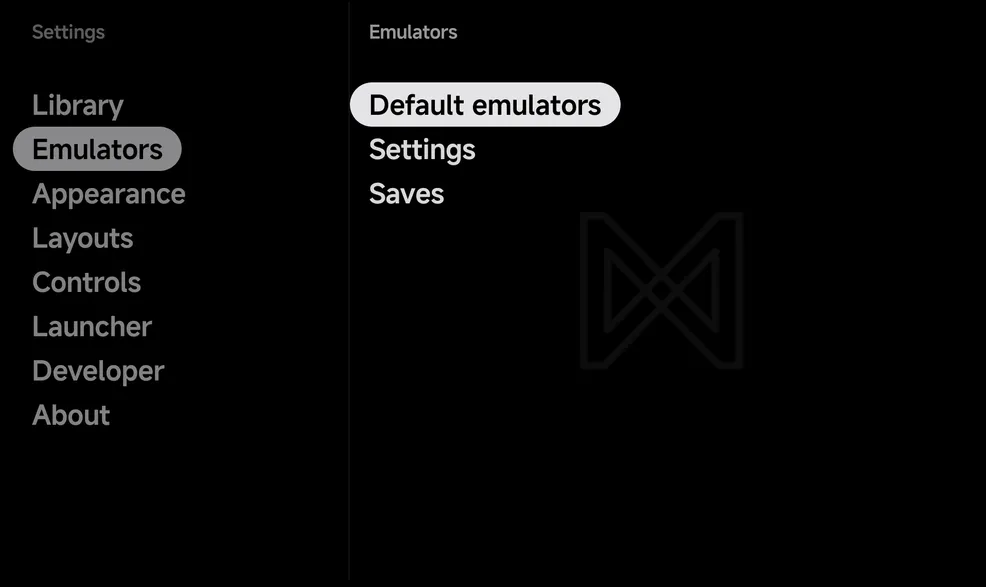
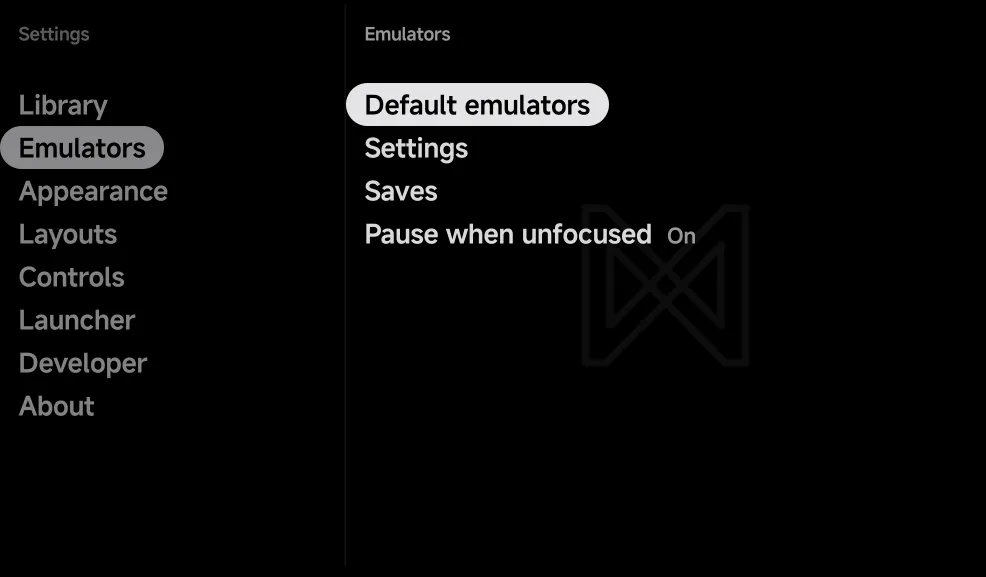
Mobile: the main menu on two screens, apps on the picture screen, Settings → Second screen, Pause when unfocused (#31)

diff --git a/docs/mobile/dual-screen.md b/docs/mobile/dual-screen.md
@@ -1,9 +1,11 @@
 # Dual Screens & External Displays
 
-On a handheld with a second screen, NX Redux uses both. Nintendo DS and 3DS
-games get one screen each, like the real console. Other games show the game
-on one screen and a [game panel](#the-game-panel) on the other, with your play
-time, achievements and a few shortcuts.
+On a handheld with a second screen, NX Redux uses both. In the
+[main menu](#the-main-menu), the games of the console or collection you're on
+show on one screen while you browse on the other. Nintendo DS and 3DS games
+get one screen each, like the real console. Other games show the game on one
+screen and a [game panel](#the-game-panel) on the other, with your play time,
+achievements and a few shortcuts.
 
 ![Mario Kart DS on two screens: the DS top screen on a wired display, the bottom screen on the phone with the Panel pill](../assets/screenshots/mobile/dual-screen-ds-split.webp)
 
@@ -20,9 +22,6 @@ shows in the [in-game menu](in-game-menu.md#the-game-panel) instead.
 ??? info "More detail"
     - Plug a display in or unplug it during a game and the game carries on: the
       layout switches straight away.
-    - The app's own pages, such as Home, Settings and the in-game menu, stay on
-      the phone's main screen. The second screen only ever shows part of a
-      running game.
     - Android doesn't tell an add-on screen from a monitor or a TV, so a
       wired monitor counts as a second screen too.
 
@@ -30,8 +29,10 @@ shows in the [in-game menu](in-game-menu.md#the-game-panel) instead.
 
 One screen is the **picture screen** and the other the **touch screen**:
 
-- The **picture screen** shows the game, or the DS or 3DS top screen.
+- The **picture screen** shows the game, or the DS or 3DS top screen. In the
+  main menu it shows a game list.
 - The **touch screen** shows the DS or 3DS bottom screen, or the game panel.
+  In the main menu it shows the menu.
 
 By default the wider screen is the picture screen. When both have the same
 shape, the second screen gets the picture. To choose yourself, set
@@ -57,11 +58,56 @@ screen** button: tap the one on the screen below. **Skip** leaves it on
 A wired display never gets this question. Change the answer any time in
 [Settings](#settings).
 
+## The main menu
+
+With a second screen in use, the main menu stays on the touch screen and the
+picture screen helps you browse.
+
+- On **Consoles** and **Collections**, the picture screen shows the games of
+  the highlighted console or collection. It follows as you move.
+- Press `A` on a console or collection, or tap it, to move to its game list on
+  the picture screen. Move through the games there, and press `A` to play.
+- While you're in the game list, the touch screen shows the highlighted
+  game's details: its art, name and play time and, with a
+  [RetroAchievements](retroachievements.md) set, its achievements.
+- `B`, Android's Back gesture or the **Back** button on the details goes
+  back to the menu.
+- On **Home**, **Tools** and **Settings**, the picture screen shows the
+  backdrop with the NX logo.
+
+![The main menu on two screens: Game Boy Advance highlighted in Consoles on the phone, its games on the wired display](../assets/screenshots/mobile/dual-screen-menu.webp)
+
+Your buttons work on the screen you're on, and its button hints show there
+only. In the game list they do what they do in any
+[game list](main-menu.md#game-lists), such as `MENU` for the game's context menu or
+`START` to search. Menus and prompts open on the same screen.
+
+The game list uses your game list style from
+[**Settings → Layouts**](layouts.md), not the Consoles or Collections style.
+
+![Kirby & the Amazing Mirror highlighted in the game list on the wired display, its details and achievements on the phone](../assets/screenshots/mobile/dual-screen-menu-details.webp)
+
+??? info "More detail"
+    - You can scroll or swipe either screen at any time without leaving the
+      one you're on. Only a tap that picks something moves you: a tap on a
+      game highlights it, and a tap on the highlighted game plays it.
+    - Back from a game, you return to the game list on the same game.
+    - Signed out of RetroAchievements, the details show the game's info only.
+    - With [**Enable**](#settings) off, the main menu uses one screen.
+
+### Apps on the picture screen
+
+With a second screen in use, apps you open from NX Redux open on the picture
+screen, and the menu stays where it is. This covers apps in **Tools**, tools
+pinned to Home, and [Android games](launcher.md).
+
+To have the picture screen back, close the app.
+
 ## Settings
 
-**Tools → Settings → Emulators → Second screen** has the system-wide
-settings. The **Second screen** row shows only while a second screen is
-connected.
+**Tools → Settings → Second screen** has the system-wide settings. The
+**Second screen** section, between **Controls** and **Launcher**, shows only
+while a second screen is connected.
 
 | Row | Values | Default | What it does |
 | --- | --- | --- | --- |
@@ -171,8 +217,7 @@ Below it are up to three tabs. A tab shows only when it applies.
 ??? info "More detail"
     - **Swap disc** works as the in-game menu's **Disc** row does, while the
       game keeps running.
-    - **Second screen** changes **Settings → Emulators → Second screen →
-      Enable**.
+    - **Second screen** changes **Settings → Second screen → Enable**.
     - In a [netplay](netplay.md) match, **Swap disc** is hidden.
 
 ### Achievements
@@ -192,6 +237,10 @@ controller, or **Empty**. It works as the
 
 ## Limits
 
+- To type on the second screen, such as in a search or a rename, tap the text
+  field first.
+- While an app covers the main screen, the menu on the second screen hides
+  until you come back.
 - The panel can't be driven with buttons on the touch screen. In the in-game
   menu on one screen it can: see [The game panel](in-game-menu.md#the-game-panel).
 - Achievements in the panel have no details page for now.

diff --git a/docs/mobile/emulator-settings.md b/docs/mobile/emulator-settings.md
@@ -4,7 +4,7 @@
 sets each emulator's options for a whole console, without starting a game
 first.
 
-![Settings, with Emulators open beside the sections: Default emulators, Settings and Saves](../assets/screenshots/mobile/settings-emulators.webp){ .nx-wide }
+![Settings, with Emulators open beside the sections: Default emulators, Settings, Saves and Pause when unfocused On](../assets/screenshots/mobile/settings-emulators.webp){ .nx-wide }
 
 For one game, use **Game Settings** in the game's context menu instead. See
 [Game Settings](#game-settings).
@@ -88,11 +88,28 @@ the game, and choose **Game Settings**. The same page opens over the list, for t
       again.
     - `B` returns to the game list on the same game.
 
-## Second screen
+## Pause when unfocused
 
-While a second screen is connected, such as a dual-screen handheld's or a
-display on USB-C, **Tools → Settings → Emulators** has a **Second screen**
-row. It opens **Enable** and **Bottom screen**. See
+**Tools → Settings → Emulators → Pause when unfocused** (On by default)
+pauses a game when another app takes over while the game is still on screen:
+in split screen, in a desktop window such as Samsung DeX, or with an app open
+on a second screen. Go back to the game, by tapping or clicking it, and it
+plays on by itself.
+
+Turn it off to keep a game running while you use another app beside it.
+
+??? info "More detail"
+    - The game's sound and rumble stop with it.
+    - If you open the in-game menu before going back, the game stays paused
+      until you choose **Continue**.
+    - Your own screens don't count: the game panel, the DS or 3DS bottom
+      screen and the in-game menu never pause it.
+    - In a [netplay](netplay.md) match, the other player sees you paused, as
+      when you leave the app.
+    - Leaving the app, such as to Home, always pauses the game, whatever this
+      setting says.
+
+The second screen has its own section in Settings: see
 [Dual Screens & External Displays](dual-screen.md#settings).
 
 ## Default emulators

diff --git a/docs/mobile/settings.md b/docs/mobile/settings.md
@@ -1,17 +1,18 @@
 # Settings
 
 Open **Tools → Settings** for the app's settings. They are split into eight
-sections.
+sections, or nine while a second screen is connected.
 
 ![Settings: the eight sections on the left, with Library previewed on the right](../assets/screenshots/mobile/settings.webp){ .nx-wide }
 
 | Section | What it holds |
 | --- | --- |
 | [**Library**](library.md) | Rescan library, your ROM folders, and the Unassigned and Hidden games |
-| [**Emulators**](emulator-settings.md) | **Default emulators**, **Settings** for each emulator's options, **Saves**, and **Second screen** while one is connected |
+| [**Emulators**](emulator-settings.md) | **Default emulators**, **Settings** for each emulator's options, **Saves**, and **Pause when unfocused** |
 | [**Appearance**](appearance.md) | Pad theme, Accent, Secondary accent and Text size |
 | [**Layouts**](layouts.md) | The style of each main menu tab and of the game lists, the page title and hints, and the Game Switcher |
 | [**Controls**](controls-settings.md) | Pad vibration, Game rumble, Menu pad and Pad layout |
+| [**Second screen**](dual-screen.md#settings) | **Enable** and **Bottom screen**. Shows only while a second screen is connected |
 | [**Launcher**](launcher.md) | Use the app as your home screen, and pick Android apps and games |
 | [**Developer**](#developer) | Debug log |
 | [**About**](about.md) | The app's version and your device's details |
